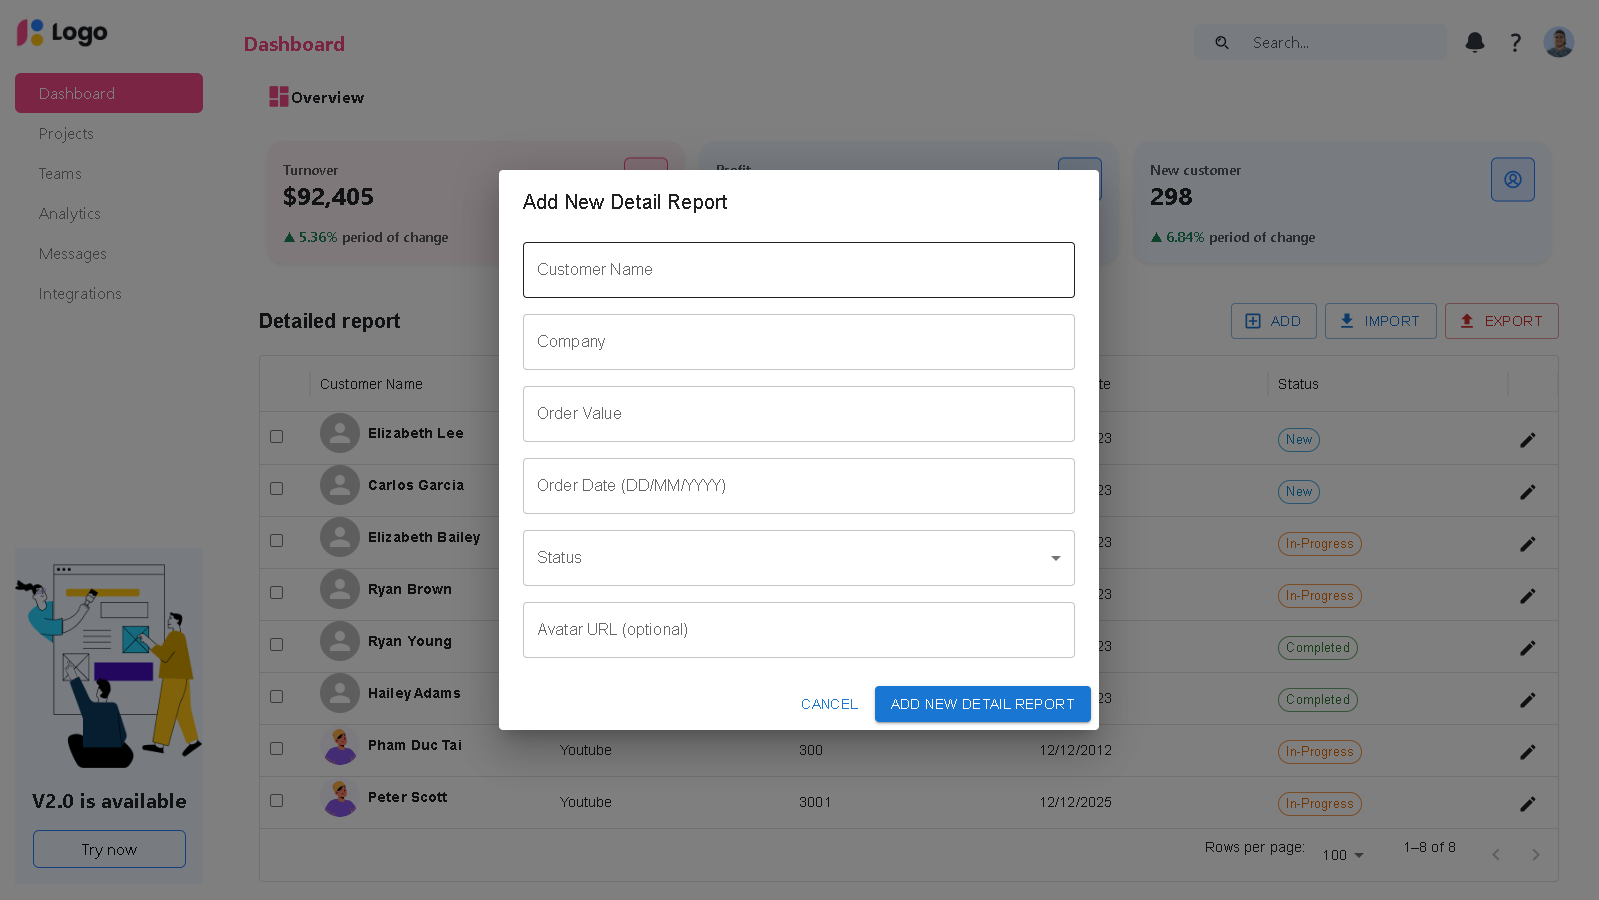
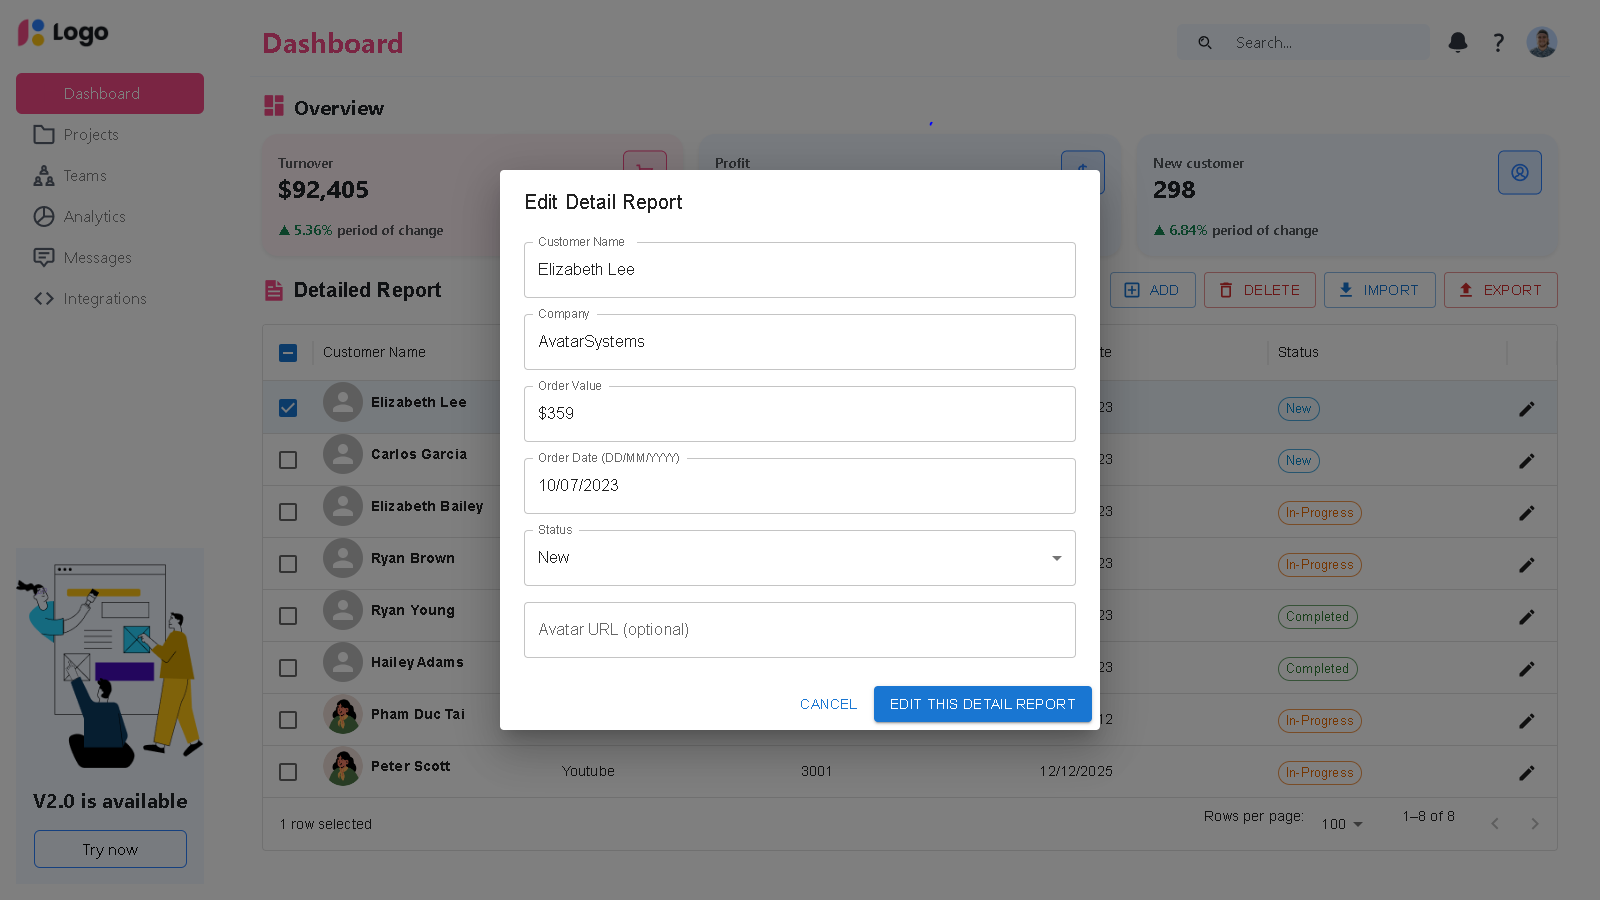
CAU 5, 6, 11

diff --git a/src/components/DetailedReport.jsx b/src/components/DetailedReport.jsx
@@ -4,7 +4,9 @@ import {
   Dialog, DialogTitle, DialogContent, DialogActions, TextField, MenuItem
 } from '@mui/material';
 import { DataGrid } from '@mui/x-data-grid';
-import { FileDownload, FileUpload, Edit, AddBoxOutlined } from '@mui/icons-material';
+import {
+  FileDownload, FileUpload, Edit, AddBoxOutlined, DeleteOutlined
+} from '@mui/icons-material';
 import axios from 'axios';
 
 const getStatusChip = (status) => {
@@ -26,6 +28,7 @@ const getStatusChip = (status) => {
 
 const DetailedReport = () => {
   const [rows, setRows] = useState([]);
+  const [selectedIds, setSelectedIds] = useState([]);
   const [open, setOpen] = useState(false);
   const [mode, setMode] = useState('add'); // 'add' or 'edit'
   const [selectedId, setSelectedId] = useState(null);
@@ -113,16 +116,22 @@ const DetailedReport = () => {
       .catch(err => console.error('Error updating report:', err));
   };
 
+  const handleDelete = () => {
+    if (selectedIds.length === 0) return;
+
+    Promise.all(
+      selectedIds.map(id =>
+        axios.delete(`http://localhost:3001/detailedReport/${id}`)
+      )
+    )
+      .then(() => {
+        setRows(prev => prev.filter(row => !selectedIds.includes(row.id)));
+        setSelectedIds([]);
+      })
+      .catch(err => console.error('Error deleting reports:', err));
+  };
+
   const columns = [
-    {
-      field: 'checkbox',
-      headerName: '',
-      width: 50,
-      renderCell: () => <input type="checkbox" />,
-      sortable: false,
-      filterable: false,
-      disableColumnMenu: true
-    },
     {
       field: 'name',
       headerName: 'Customer Name',
@@ -157,14 +166,24 @@ const DetailedReport = () => {
   ];
 
   return (
-    <Box sx={{ height: 500, width: '100%', p: 2 }}>
+    <Box className="container" sx={{ height: 500 }}>
       <Stack direction="row" justifyContent="space-between" alignItems="center" mb={2}>
-        <Typography variant="h6" fontWeight={700}>
-          <i className="bi bi-file-earmark-text"></i> Detailed report
+        <Typography variant="h6" fontWeight={700} className='d-flex align-items-center gap-2'>
+          <img src="src/assets/file-icon.png" alt="" />
+          <span className="fs-5">Detailed Report</span>
         </Typography>
         <Stack direction="row" spacing={1}>
           <Button onClick={handleOpenDialog} variant="outlined" color="primary" startIcon={<AddBoxOutlined />}>
             Add
+          </Button>
+          <Button
+            variant="outlined"
+            color="error"
+            startIcon={<DeleteOutlined />}
+            onClick={handleDelete}
+            disabled={selectedIds.length === 0}
+          >
+            Delete
           </Button>
           <Button variant="outlined" startIcon={<FileDownload />}>Import</Button>
           <Button variant="outlined" color="error" startIcon={<FileUpload />}>Export</Button>
@@ -176,6 +195,8 @@ const DetailedReport = () => {
         columns={columns}
         pageSize={5}
         rowsPerPageOptions={[5]}
+        checkboxSelection
+        onRowSelectionModelChange={(ids) => setSelectedIds(ids)}
         disableSelectionOnClick
         autoHeight
       />

diff --git a/src/components/Sidebar.jsx b/src/components/Sidebar.jsx
@@ -2,12 +2,12 @@ import { NavLink } from 'react-router-dom';
 
 const Sidebar = () => {
   const navItems = [
-    { label: 'Dashboard', to: '/', icon: 'bi-grid' },
-    { label: 'Projects', to: '/projects', icon: 'bi-folder' },
-    { label: 'Teams', to: '/teams', icon: 'bi-people' },
-    { label: 'Analytics', to: '/analytics', icon: 'bi-speedometer2' },
-    { label: 'Messages', to: '/messages', icon: 'bi-chat-dots' },
-    { label: 'Integrations', to: '/integrations', icon: 'bi-code-slash' },
+    { label: 'Dashboard', to: '/', icon: '/src/assets/block-icon.png' },
+    { label: 'Projects', to: '/projects', icon: '/src/assets/folder-icon.png' },
+    { label: 'Teams', to: '/teams', icon: '/src/assets/group-icon.png' },
+    { label: 'Analytics', to: '/analytics', icon: '/src/assets/pie-chart-icon.png' },
+    { label: 'Messages', to: '/messages', icon: '/src/assets/chat-icon.png' },
+    { label: 'Integrations', to: '/integrations', icon: '/src/assets/code-icon.png' },
   ];
 
   return (
@@ -21,10 +21,10 @@ const Sidebar = () => {
             <NavLink
               to={to}
               className={({ isActive }) =>
-                'nav-link d-flex align-items-center ' + (isActive ? 'active bg-primary text-white' : 'text-black-50')
+                'nav-link d-flex align-items-center gap-2 ' + (isActive ? 'active bg-primary text-white' : 'text-black-50')
               }
             >
-              <i className={`bi ${icon} me-2`}></i>
+              <img src={`${icon}`} alt="" />
               {label}
             </NavLink>
           </li>

diff --git a/src/components/Overview.jsx b/src/components/Overview.jsx
@@ -36,12 +36,12 @@ const Overview = () => {
   }, []);
 
   return (
-    <div className="p-4">
-      <h6 className="fw-bold text-dark d-flex align-items-center">
+    <div className="container py-3">
+      <h6 className="fw-bold text-dark d-flex align-items-center gap-2 mb-3">
         <img src="/src/assets/block-icon.png" alt="" />
-        Overview
+        <span className="fs-5">Overview</span>
       </h6>
-      <div className="row mt-3 g-3">
+      <div className="row g-3">
         {overviewData.map(item => (
           <div className="col-md-4" key={item.id}>
             <OverviewCard

diff --git a/src/components/TopNavBar.jsx b/src/components/TopNavBar.jsx
@@ -2,10 +2,10 @@ import React from 'react';
 
 const TopNavbar = () => {
   return (
-    <div className="d-flex justify-content-between align-items-center bg-white">
+    <div className="container pb-3 border-bottom border-light d-flex justify-content-between align-items-center bg-white">
       {/* Left - Title */}
       <div>
-        <h5 className="fw-bold text-primary mb-0">Dashboard</h5>
+        <h5 className="fs-3 fw-bold text-primary mb-0">Dashboard</h5>
       </div>
 
       {/* Right - Search + Icons */}
